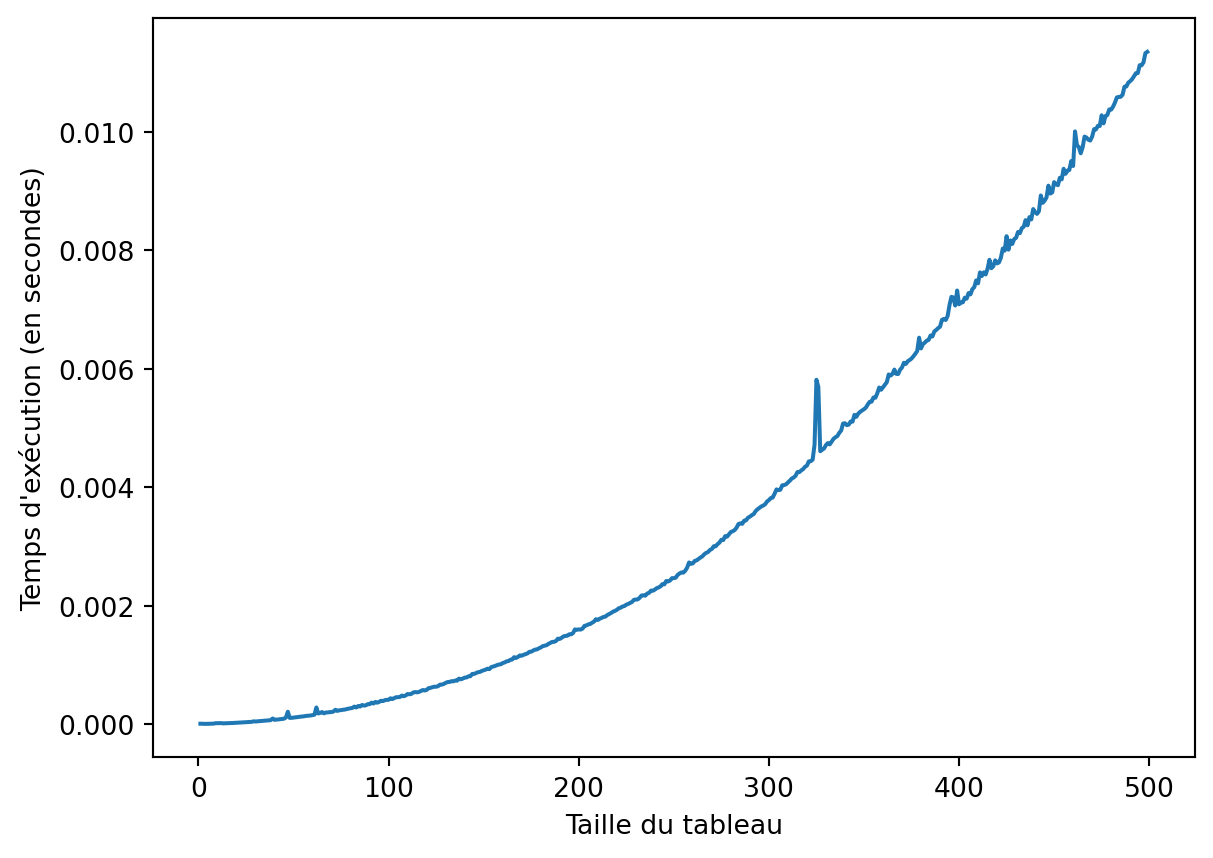
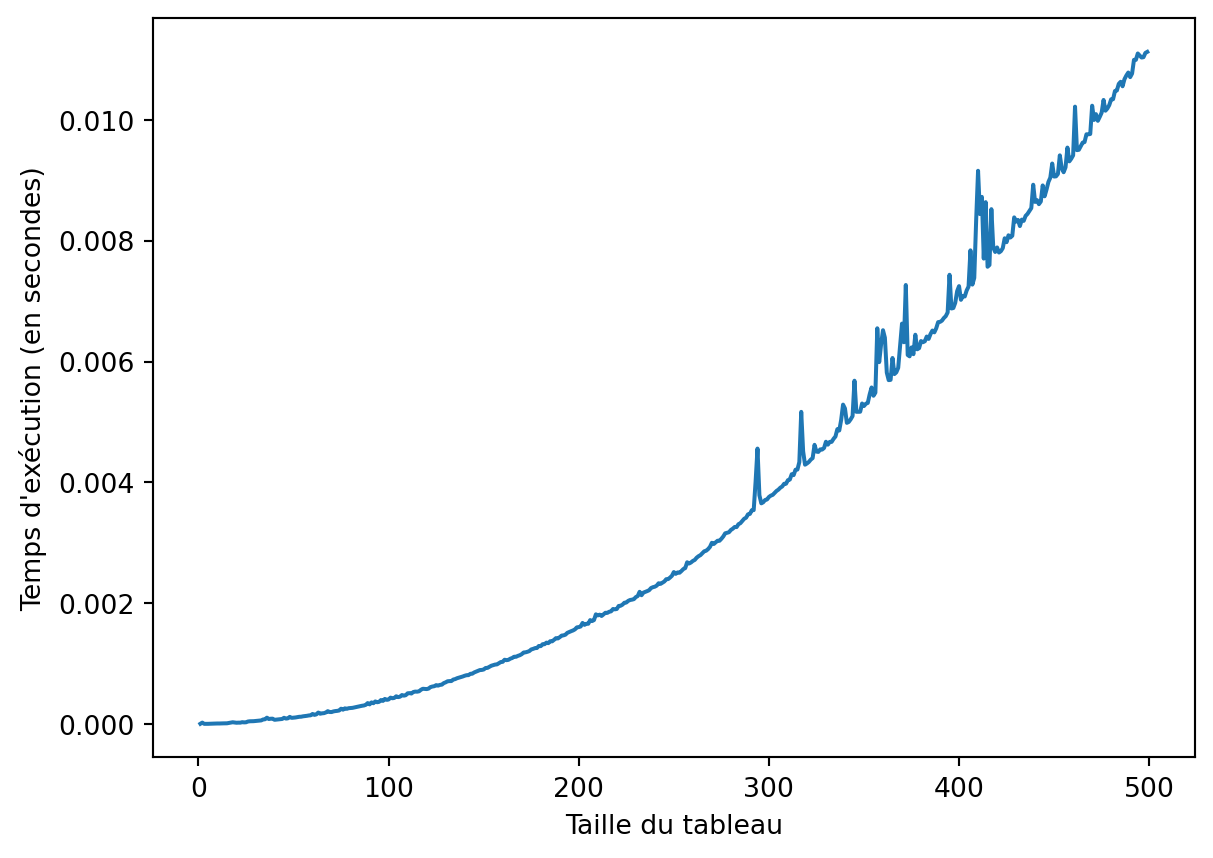
ajout lien visualisation pleine page

diff --git a/_site/16_tris/tris_cours.html b/_site/16_tris/tris_cours.html
@@ -1044,6 +1044,7 @@ window.Quarto = {
 </ul>
 </div>
 </div>
+<p><a href="./tri_insertion/index.html" target="_blank">Visualiser l’animation en pleine page</a></p>
 <iframe src="./tri_insertion/index.html" width="100%" height="650px" frameborder="0">
 </iframe>
 <p><strong>Exemple</strong> : Soit à trier le tableau <span class="math inline">\([5,2,7,3]\)</span>.</p>
@@ -1055,7 +1056,7 @@ window.Quarto = {
 </section>
 <section id="programmation" class="level3">
 <h3 class="anchored" data-anchor-id="programmation">Programmation</h3>
-<div id="7b92a895" class="cell" data-execution_count="1">
+<div id="19dd9603" class="cell" data-execution_count="1">
 <div class="code-copy-outer-scaffold"><div class="sourceCode cell-code" id="annotated-cell-1"><pre class="sourceCode python code-annotation-code code-with-copy code-annotated"><code class="sourceCode python"><span id="annotated-cell-1-1"><a href="#annotated-cell-1-1" aria-hidden="true" tabindex="-1"></a><span class="kw">def</span> tri_insertion(tableau: <span class="bu">list</span>) <span class="op">-&gt;</span> <span class="bu">list</span>:</span>
 <span id="annotated-cell-1-2"><a href="#annotated-cell-1-2" aria-hidden="true" tabindex="-1"></a>    <span class="co">"""Trie en place par insertion le tableau passé en paramètre."""</span></span>
 <a class="code-annotation-anchor" data-target-cell="annotated-cell-1" data-target-annotation="1" onclick="event.preventDefault();">1</a><span id="annotated-cell-1-3" class="code-annotation-target"><a href="#annotated-cell-1-3" aria-hidden="true" tabindex="-1"></a>    <span class="cf">for</span> i <span class="kw">in</span> <span class="bu">range</span>(<span class="dv">1</span>, <span class="bu">len</span>(tableau)):</span>
@@ -1090,7 +1091,7 @@ window.Quarto = {
 </div>
 </div>
 <p>Test de l’algorithme :</p>
-<div id="e99c0d8e" class="cell" data-execution_count="2">
+<div id="acdd4915" class="cell" data-execution_count="2">
 <div class="code-copy-outer-scaffold"><div class="sourceCode cell-code" id="cb1"><pre class="sourceCode python code-with-copy"><code class="sourceCode python"><span id="cb1-1"><a href="#cb1-1" aria-hidden="true" tabindex="-1"></a>tri_insertion([<span class="dv">5</span>, <span class="dv">2</span>, <span class="dv">4</span>, <span class="dv">6</span>, <span class="dv">1</span>, <span class="dv">3</span>])</span></code></pre></div><button title="Copier vers le presse-papier" class="code-copy-button"><i class="bi"></i></button></div>
 <div class="cell-output cell-output-display" data-execution_count="2">
 <pre><code>[1, 2, 3, 4, 5, 6]</code></pre>
@@ -1145,6 +1146,7 @@ window.Quarto = {
 </ul>
 </div>
 </div>
+<p><a href="./tri_selection/index.html" target="_blank">Visualiser l’animation en pleine page</a></p>
 <iframe src="./tri_selection/index.html" width="100%" height="650px" frameborder="0">
 </iframe>
 <p><strong>Exemple</strong> : Soit à trier le tableau <span class="math inline">\([5,2,3,7]\)</span>.</p>
@@ -1157,7 +1159,7 @@ window.Quarto = {
 </section>
 <section id="programmation-1" class="level3">
 <h3 class="anchored" data-anchor-id="programmation-1">Programmation</h3>
-<div id="0c62a70e" class="cell" data-execution_count="3">
+<div id="0a3f366e" class="cell" data-execution_count="3">
 <div class="code-copy-outer-scaffold"><div class="sourceCode cell-code" id="annotated-cell-3"><pre class="sourceCode python code-annotation-code code-with-copy code-annotated"><code class="sourceCode python"><span id="annotated-cell-3-1"><a href="#annotated-cell-3-1" aria-hidden="true" tabindex="-1"></a><span class="kw">def</span> tri_selection(tableau: <span class="bu">list</span>) <span class="op">-&gt;</span> <span class="bu">list</span>:</span>
 <span id="annotated-cell-3-2"><a href="#annotated-cell-3-2" aria-hidden="true" tabindex="-1"></a>    <span class="co">"""Trie en place par sélection le tableau passé en paramètre."""</span></span>
 <a class="code-annotation-anchor" data-target-cell="annotated-cell-3" data-target-annotation="1" onclick="event.preventDefault();">1</a><span id="annotated-cell-3-3" class="code-annotation-target"><a href="#annotated-cell-3-3" aria-hidden="true" tabindex="-1"></a>    <span class="cf">for</span> i <span class="kw">in</span> <span class="bu">range</span>(<span class="bu">len</span>(tableau)):</span>
@@ -1193,7 +1195,7 @@ window.Quarto = {
 </div>
 </div>
 <p>Test de l’algorithme :</p>
-<div id="6c0a9f81" class="cell" data-execution_count="4">
+<div id="29dfbd89" class="cell" data-execution_count="4">
 <div class="code-copy-outer-scaffold"><div class="sourceCode cell-code" id="cb3"><pre class="sourceCode python code-with-copy"><code class="sourceCode python"><span id="cb3-1"><a href="#cb3-1" aria-hidden="true" tabindex="-1"></a>tri_selection([<span class="dv">5</span>, <span class="dv">2</span>, <span class="dv">4</span>, <span class="dv">6</span>, <span class="dv">1</span>, <span class="dv">3</span>])</span></code></pre></div><button title="Copier vers le presse-papier" class="code-copy-button"><i class="bi"></i></button></div>
 <div class="cell-output cell-output-display" data-execution_count="4">
 <pre><code>[1, 2, 3, 4, 5, 6]</code></pre>
@@ -1228,7 +1230,7 @@ window.Quarto = {
 <h2 class="anchored" data-anchor-id="observation-expérimentale-de-la-complexité">3. Observation expérimentale de la complexité</h2>
 <section id="tri-par-insertion-1" class="level3">
 <h3 class="anchored" data-anchor-id="tri-par-insertion-1">Tri par insertion</h3>
-<div id="8b61201d" class="cell" data-execution_count="5">
+<div id="b154c03d" class="cell" data-execution_count="5">
 <div class="code-copy-outer-scaffold"><div class="sourceCode cell-code" id="cb5"><pre class="sourceCode python code-with-copy"><code class="sourceCode python"><span id="cb5-1"><a href="#cb5-1" aria-hidden="true" tabindex="-1"></a><span class="im">import</span> timeit</span>
 <span id="cb5-2"><a href="#cb5-2" aria-hidden="true" tabindex="-1"></a><span class="im">import</span> matplotlib.pyplot <span class="im">as</span> plt</span>
 <span id="cb5-3"><a href="#cb5-3" aria-hidden="true" tabindex="-1"></a></span>
@@ -1256,7 +1258,7 @@ window.Quarto = {
 </section>
 <section id="tri-par-sélection-1" class="level3">
 <h3 class="anchored" data-anchor-id="tri-par-sélection-1">Tri par sélection</h3>
-<div id="8a2520b0" class="cell" data-execution_count="6">
+<div id="7e23d159" class="cell" data-execution_count="6">
 <div class="code-copy-outer-scaffold"><div class="sourceCode cell-code" id="cb6"><pre class="sourceCode python code-with-copy"><code class="sourceCode python"><span id="cb6-1"><a href="#cb6-1" aria-hidden="true" tabindex="-1"></a><span class="im">import</span> timeit</span>
 <span id="cb6-2"><a href="#cb6-2" aria-hidden="true" tabindex="-1"></a><span class="im">import</span> matplotlib.pyplot <span class="im">as</span> plt</span>
 <span id="cb6-3"><a href="#cb6-3" aria-hidden="true" tabindex="-1"></a></span>
